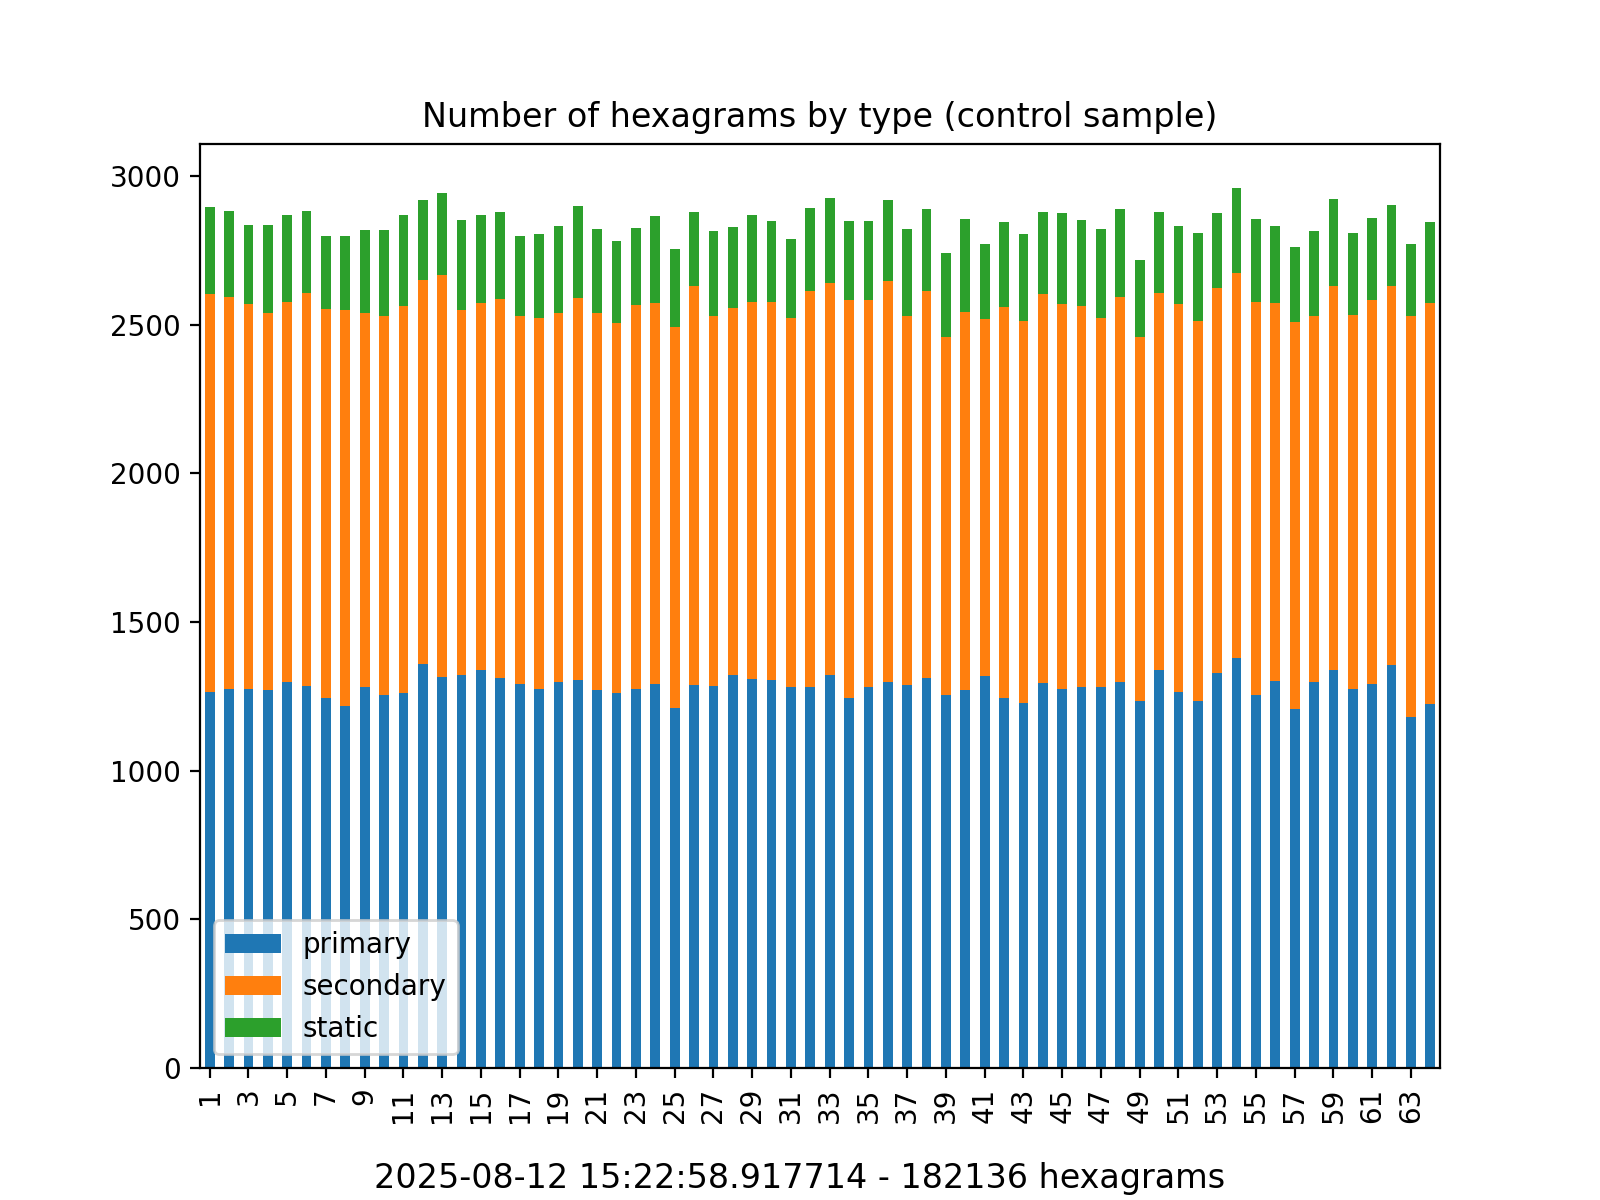
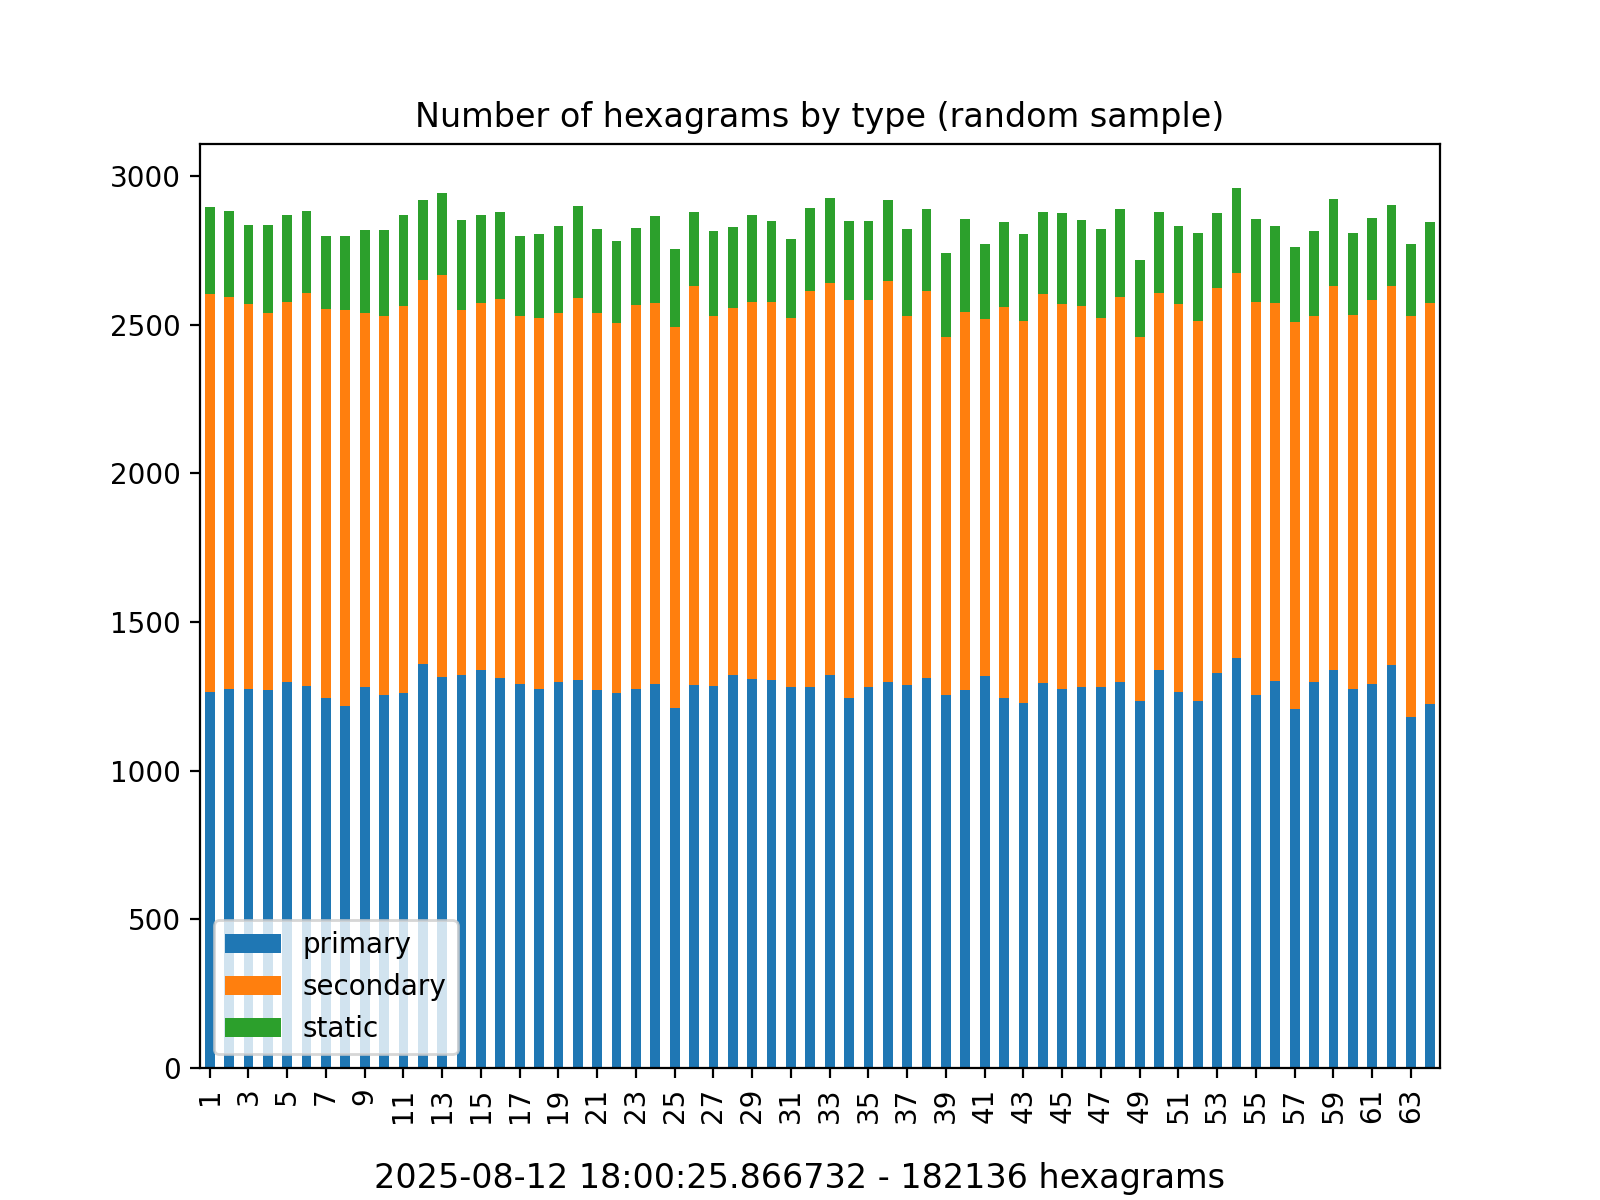
Add moving lines plot

Changed region(s): [[0.25, 0.0617, 0.7812, 0.1233], [0.375, 0.9558, 0.5625, 1.0]]

diff --git a/docs/print_plots.py b/docs/print_plots.py
@@ -6,13 +6,14 @@ import matplotlib.pyplot as plt
 import pandas as pd
 import numpy as np
 
-if len(sys.argv) != 4:
-    print(f"Usage: {sys.argv[0]} <csv_file> <plot_title> <file_prefix")
+if len(sys.argv) != 3:
+    print(f"Usage: {sys.argv[0]} <csv_file> <file_prefix")
     sys.exit(1)
 
 csv_file = sys.argv[1]
-plot_title = sys.argv[2]
-file_prefix = sys.argv[3]
+file_prefix = sys.argv[2]
+# csv_file = '/Users/jacopo/Developer/iching_log/data/meaningful-sample.csv'
+# file_prefix = 'meaningful'
 
 plt.rcParams['figure.figsize'] = [8.0, 6.0]
 plt.rcParams['figure.dpi'] = 200
@@ -35,11 +36,11 @@ counts_df.plot(
     ax=ax
 )
 
-ax.set_title(plot_title)
+ax.set_title(f'Number of hexagrams by type ({file_prefix} sample)')
 ax.legend()
 plt.figtext(0.5, 0.01, f"{datetime.datetime.now()} - {len(df['time'])} hexagrams", wrap=True, horizontalalignment='center', fontsize=12)
 xticks = range(len(hex_values))
-ax.set_xticks(xticks[::2])  # Mostra solo ogni seconda etichetta
+ax.set_xticks(xticks[::2])
 ax.set_xticklabels(hex_values[::2])
 
 print(f'Drawing plot {file_prefix}_bars.png')
@@ -59,10 +60,112 @@ ax = fig.add_subplot(111, polar=True)
 for i, counts in enumerate(data):
     ax.plot(angles, counts, 'o-', linewidth=2, label=types[i])
     
-ax.set_title(plot_title)
+ax.set_title(f'Number of hexagrams by type ({file_prefix} sample)')
 ax.legend(loc='upper right', bbox_to_anchor=(1.3, 1.1))
 ax.set_thetagrids(angles * 180/np.pi, hex_values)
 plt.figtext(0.5, 0.01, f"{datetime.datetime.now()} - {len(df['time'])} hexagrams", wrap=True, horizontalalignment='center', fontsize=12)
 
 print(f'Drawing plot {file_prefix}_radar.png')
 plt.savefig(f'./{file_prefix}_radar.png')
+plt.clf()
+
+# Moving lines analysis
+iching = {
+    1:  0b111111,
+    2:  0b000000,
+    3:  0b010001,
+    4:  0b100010,
+    5:  0b010111,
+    6:  0b111010,
+    7:  0b000010,
+    8:  0b010000,
+    9:  0b110111,
+    10: 0b111011,
+    11: 0b000111,
+    12: 0b111000,
+    13: 0b111101,
+    14: 0b101111,
+    15: 0b000100,
+    16: 0b001000,
+    17: 0b011001,
+    18: 0b100110,
+    19: 0b000011,
+    20: 0b110000,
+    21: 0b101001,
+    22: 0b100101,
+    23: 0b100000,
+    24: 0b000001,
+    25: 0b111001,
+    26: 0b100111,
+    27: 0b100001,
+    28: 0b011110,
+    29: 0b010010,
+    30: 0b101101,
+    31: 0b011100,
+    32: 0b001110,
+    33: 0b111100,
+    34: 0b001111,
+    35: 0b101000,
+    36: 0b000101,
+    37: 0b110101,
+    38: 0b101011,
+    39: 0b010100,
+    40: 0b001010,
+    41: 0b100011,
+    42: 0b110001,
+    43: 0b011111,
+    44: 0b111110,
+    45: 0b011000,
+    46: 0b000110,
+    47: 0b011010,
+    48: 0b010110,
+    49: 0b011101,
+    50: 0b101110,
+    51: 0b001001,
+    52: 0b100100,
+    53: 0b110100,
+    54: 0b001011,
+    55: 0b001101,
+    56: 0b101100,
+    57: 0b110110,
+    58: 0b011011,
+    59: 0b110010,
+    60: 0b010011,
+    61: 0b110011,
+    62: 0b001100,
+    63: 0b010101,
+    64: 0b101010,
+}
+df_filtered = df[df['type'] != 'static']
+pairs = []
+
+for index, row in df_filtered.iterrows():
+    hex_value = row['hex']
+    type_value = row['type']
+    
+    if type_value == 'primary':
+        pairs.append({'primary': hex_value, 'secondary': 0})
+    elif type_value == 'secondary':
+        pairs[-1]['secondary'] = hex_value
+
+bit_changes = np.zeros(6, dtype=int)
+
+for pair in pairs:
+    primary_hex = iching.get(pair['primary'])
+    secondary_hex = iching.get(pair['secondary'])
+    
+    xor_result = primary_hex ^ secondary_hex
+    
+    for i in range(6):
+        if xor_result & (1 << i):
+            bit_changes[i] += 1
+
+bit_labels = [f'Line {i+1}' for i in range(6)]
+fig, ax = plt.subplots()
+ax.bar(bit_labels, bit_changes)
+
+ax.set_title(f'Moving lines ({file_prefix} samples)')
+plt.figtext(0.5, 0.01, f"{datetime.datetime.now()} - {len(df['time'])} hexagrams", wrap=True, horizontalalignment='center', fontsize=12)
+
+print(f'Drawing plot {file_prefix}_moving.png')
+plt.savefig(f'./{file_prefix}_moving.png')

diff --git a/README.md b/README.md
@@ -10,6 +10,7 @@ When plotted, it's clear that the results are randomic:
 
 ![img](./docs/random_bars.png)
 ![img](./docs/random_radar.png)
+![img](./docs/random_moving.png)
 
 I defined those as control samples because you're supposed to consult the I Ching with a meaningful question.  While the process uses a randomic technique, it's the meaning that should make the difference.
 
@@ -17,6 +18,7 @@ I'm in the process of logging all meaningful consultations of the I Ching, and h
 
 ![img](./docs/meaningful_bars.png)
 ![img](./docs/meaningful_radar.png)
+![img](./docs/meaningful_moving.png)
 
 Of course, right now I have too little data to get to a conclusion, but I expect one of these will happen:
 
